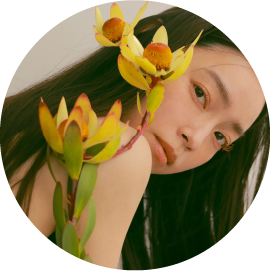
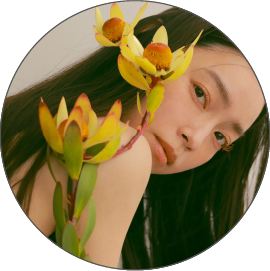
add_icon_image

diff --git a/scss/style.scss b/scss/style.scss
@@ -571,8 +571,6 @@ html {
     .profile__icon {
         max-width:rem(135);
         margin-left: rem(-5);
-        border: 1px solid $color-black;
-        border-radius: 50%;
         box-sizing: border-box;
         @include mq(md) {
             max-width: vw(281);

diff --git a/css/style.css b/css/style.css
@@ -659,8 +659,6 @@ html {
 .UU240403influencer .profile__icon {
   max-width: 13.5rem;
   margin-left: -0.5rem;
-  border: 1px solid #555555;
-  border-radius: 50%;
   -webkit-box-sizing: border-box;
           box-sizing: border-box;
 }
